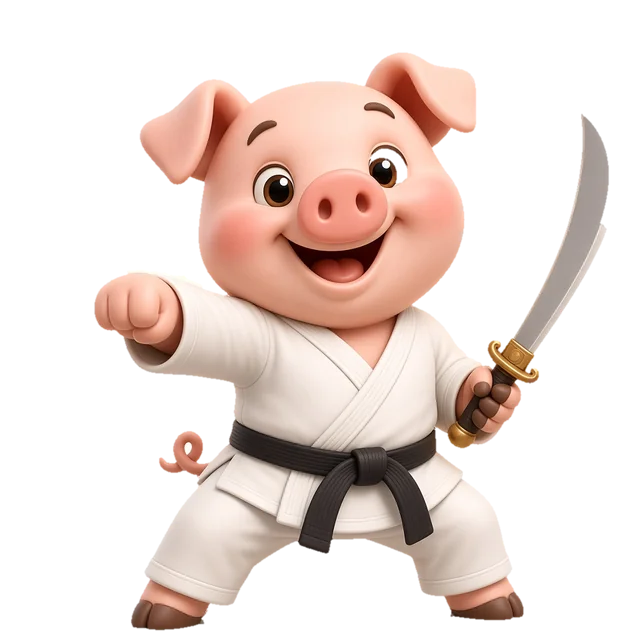
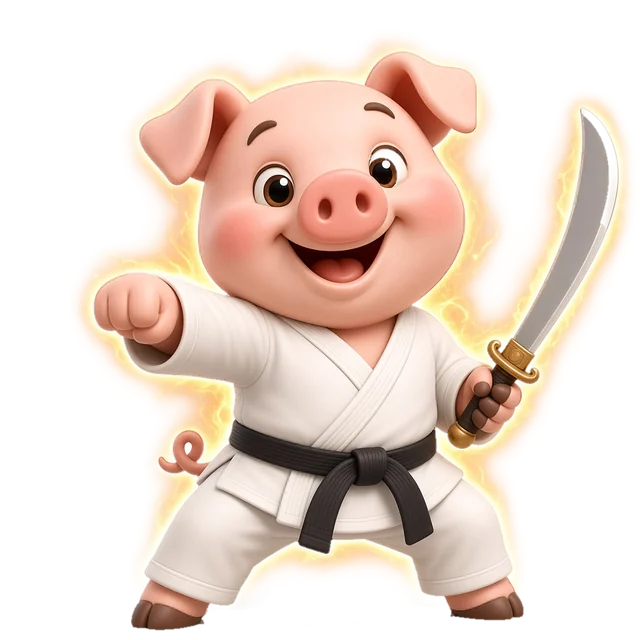
십이지(수련생) 금빛 기운 살리기 — 원본의 불타는 듯한 아우라를 반투명 금빛 층으로
- 선생님 요청: 한때 배경과 함께 걷었던 기운(빛 번짐 · 번개 · 불꽃)을 되살림.
- scripts/prepare-zodiac-art.py에 4단계(aura · compose): 원본에서 색이 있고 밝은 칸의 짙기를
  5px 흐리게 해 불투명도로(바깥으로 갈수록 옅게), 흰 바탕 위 옅은 색을 2.2배 짙게 칠해 캐릭터 뒤에 깖.
  흰 고르기 창에서는 원본과 거의 같고, 어두운 독서 맵 · 친구 목록에서는 금빛으로 빛남.
  용은 원본대로 민트빛, 토끼는 원본에 기운이 없어 그대로. 회색 바닥 그림자는 기운에 안 넣음.
  캐릭터(불투명)와 틀(캐릭터 발끝 기준)은 그대로 — 틀 가장자리 40px에서 기운이 사라짐.
- zodiac-01~10.webp 다시 만듦(24~78KB). 스크립트를 다시 돌리면 바이트까지 같음.
- 문서: public/reading-journey/README.md · READING_GROWTH.md(캐릭터 항목의 API 문장이 하위
  항목 끝에 붙어 있던 것도 본 항목으로 되돌림).
- 실측(데모 1440px): 독서 맵 길 위(독서 대장 빛과 함께) · 오른쪽 초상 · 친구 목록 · 상단바 TOP 3 ·
  프로필 동그라미 · 고르기 창 — 지도 토큰의 그림자 효과로 생기는 검은 테 없음 · 그림 실패 0 · 페이지 오류 0.

Claude-Session: https://claude.ai/code/session_01C8MEnwKbSQD7jTHwr2vygZ

diff --git a/scripts/prepare-zodiac-art.py b/scripts/prepare-zodiac-art.py
@@ -13,11 +13,15 @@
 #          번개 · 불꽃 조각은 두 윤곽 사이에 끼어 배경 쪽으로 갑니다.
 #   3단계  가는 밝은 줄(번개 끝) · 떨어진 부스러기를 걷고, 가장자리 색을 안쪽 색으로 채워 흰 테를 없앱니다.
 #   그래도 남는 곳(용의 민트빛 번짐 · 창날, 쥐 바지 옆 번짐 주머니)은 아래 PER_IMAGE에 눈으로 잰 점 · 다각형으로 적었습니다.
+#   4단계  걷어 낸 기운을 '반투명 금빛 층'으로 되살려 캐릭터 뒤에 깝니다(선생님 요청 — 원본의 불타는 듯한 아우라).
+#          흰 바탕 위 옅은 색을 2.2배 짙게 해 어두운 지도 · 친구 목록에서도 금빛으로 빛나고, 흰 바탕에서는 원본과 거의 같습니다.
+#          캐릭터 자체(불투명)는 1~3단계 그대로이고, 회색 바닥 그림자는 기운에 안 넣습니다. → aura()
 # 틀(640): 열 장 모두 같은 배율(가운데 960px 창 → 640)이라 그린 크기 그대로 견줘지고, 발끝은 아래에서 10px 위.
+#          틀은 캐릭터만으로 정하고(기운이 발밑으로 번져도 틀이 안 움직이게), 틀 가장자리 40px에서 기운이 사라집니다.
 import sys, os, glob, heapq
 from concurrent.futures import ProcessPoolExecutor
 import numpy as np
-from PIL import Image, ImageDraw
+from PIL import Image, ImageDraw, ImageFilter
 
 
 def box3(a):
@@ -277,12 +281,37 @@ def finish(rgb, subj):
 WIN, X0, OUT, FOOT = 960, 32, 640, 15
 
 
-def frame(im):
-    """1024px 투명 → 640×640: 가로는 원본 가운데(32~992), 세로는 발끝이 창 아래에서 15px(640에서 10px) 위."""
-    a = np.asarray(im)[..., 3]
-    ys, _ = np.nonzero(a > 8)
+def aura(rgb):
+    """원본의 기운(빛 번짐 · 번개 · 불꽃)을 반투명 층으로 — (색, 불투명도 0~1).
+    색이 있고(노랑 · 주황 · 민트) 밝은 칸만 기운으로 셉니다 — 회색 바닥 그림자는 빠짐.
+    세기는 5px 흐리게 한 '색의 짙기'로, 바깥으로 갈수록 옅게. 색은 흰 바탕 위 옅은 색을 2.2배 짙게."""
+    sm = box3(rgb)
+    chroma = sm.max(2) - sm.min(2)
+    bright = np.clip((sm.max(2) - 222.0) / 20.0, 0, 1)
+    env = Image.fromarray(np.clip(chroma * bright, 0, 255).astype(np.uint8), "L").filter(ImageFilter.GaussianBlur(5))
+    alpha = np.clip((np.asarray(env).astype(np.float64) - 4.0) / 36.0, 0, 1) ** 0.85
+    alpha *= 0.92
+    color = np.clip(255.0 - 2.2 * (255.0 - rgb), 0, 255)
+    return color, alpha
+
+
+def compose(rgb, subj):
+    """캐릭터(불투명, finish) 뒤에 기운 층을 깔고 640×640으로 — 가로는 원본 가운데(32~992),
+    세로는 캐릭터 발끝이 창 아래에서 15px(640에서 10px) 위."""
+    char = np.asarray(finish(rgb, subj)).astype(np.float64)
+    ca = char[..., 3:4] / 255.0
+    ys, _ = np.nonzero(char[..., 3] > 8)
     y0 = int(ys.max()) + FOOT - WIN
-    crop = im.crop((X0, y0, X0 + WIN, y0 + WIN))                     # 밖은 투명으로 채워짐
+    h, w = subj.shape
+    yy, xx = np.mgrid[0:h, 0:w]
+    edge = np.minimum.reduce([xx - X0, X0 + WIN - 1 - xx, yy - y0, y0 + WIN - 1 - yy]).astype(np.float64)
+    color, a = aura(rgb)
+    a = (a * np.clip(edge / 40.0, 0, 1))[..., None]          # 틀 가장자리 40px에서 기운이 사라지게(잘린 선이 안 보이게)
+    A = ca + (1 - ca) * a                                     # 캐릭터를 기운 위에 얹기(투명도를 곱한 셈)
+    P = ca * char[..., :3] + (1 - ca) * a * color
+    rgbo = np.where(A > 0, P / np.maximum(A, 1e-6), 0)
+    im = Image.fromarray(np.dstack([np.clip(rgbo, 0, 255), np.clip(A[..., 0] * 255, 0, 255)]).astype(np.uint8), "RGBA")
+    crop = im.crop((X0, y0, X0 + WIN, y0 + WIN))                                     # 밖은 투명으로 채워짐
     small = crop.convert("RGBa").resize((OUT, OUT), Image.LANCZOS).convert("RGBA")   # 투명도를 곱한 채로 줄여 테가 안 생김
     arr = np.asarray(small).copy()
     al = arr[..., 3]
@@ -295,7 +324,7 @@ def one(job):
     src, dst_dir = job
     key = os.path.basename(src).rsplit(".", 1)[0]
     rgb, subj = matte(src, PER_IMAGE.get(key, {}))
-    out = frame(finish(rgb, subj))
+    out = compose(rgb, subj)
     path = os.path.join(dst_dir, f"zodiac-{key[:2]}.webp")
     out.save(path, "WEBP", quality=85, method=6)
     return f"{os.path.basename(src)} → {os.path.basename(path)} ({os.path.getsize(path) // 1024}KB)"

diff --git a/READING_GROWTH.md b/READING_GROWTH.md
@@ -56,10 +56,10 @@
   - **한 번 받으면 네 기간(오늘 · 이번 주 · 이번 달 · 누적)의 경험치가 함께 옵니다**(줄마다 `xpBy`). 기간 단추를 눌러도 서버에 다시 묻지 않고 그 자리에서 다시 세웁니다(`lib/readingJourney.js`의 `rankingsForPeriod` — 서버와 같은 `sortReadingRankings`). 시험 `tests/unit/readingJourney.test.mjs`('순위 — 한 번 받은 네 기간…').
   - 다시 받는 동안은 순위 · 내 순위 메달을 **그대로 둡니다**(깜빡이지 않음). 받아 오다 실패하면 마지막으로 확인한 성장 정보임을 알리고 기존 지도 선택을 유지합니다. 권한·기능이 해제되면 이전 목록도 걷습니다.
   - 한때 30초마다 + 돌아올 때 focus · visibilitychange로 두 번씩, 그 뒤 60초마다 받았고 기간 단추마다 다시 받았습니다 — 25명 반이면 한 번에 80장 남짓이라, 학생 25명이 10분 띄워 두면 2만 장을 넘었습니다(지금은 2천 장 남짓).
-- **캐릭터** — 세 묶음 각 10종을 `public/reading-journey/`의 투명 WebP(640×640)로 표시합니다: **수련생 · 십이지**(`zodiac` — 쥐·소·호랑이·토끼·용·양·원숭이·닭·개·돼지, 무술 도복) · **무도가 · 동물**(`animal` — 곰·토끼·고양이 …, 처음부터 있던 묶음) · **영웅 · 판타지**(`fantasy` — 엘프 궁수·곰 기사·드워프·보라 마법사·레드 드래곤·드루이드·가면 도적·성직자·오크·요정). `lib/readingCharacterCatalog.js`의 묶음별 목록·이름·이미지 경로를 선택창·지도·랭킹·프로필·상단 TOP 3가 공유하고, 화면 글자(등급 이름 — 수련생 · 무도가 · 영웅, 선생님이 고름 · 한때 초급 · 중급 · 고급)도 그 파일의 `CHARACTER_STYLE_OPTIONS` 한 곳입니다. 프로필 등에는 '용 · 수련생'처럼 캐릭터 이름 뒤에 붙습니다. 묶음과 캐릭터는 레벨과 무관하게 학생이 고르며, 고른 적 없는 학생은 UID로 정한 무도가 동물(`defaultWorldAvatar`)입니다. `캐릭터 꾸미기`는 본인 선택 때만 보입니다.
+- **캐릭터** — 세 묶음 각 10종을 `public/reading-journey/`의 투명 WebP(640×640)로 표시합니다: **수련생 · 십이지**(`zodiac` — 쥐·소·호랑이·토끼·용·양·원숭이·닭·개·돼지, 무술 도복) · **무도가 · 동물**(`animal` — 곰·토끼·고양이 …, 처음부터 있던 묶음) · **영웅 · 판타지**(`fantasy` — 엘프 궁수·곰 기사·드워프·보라 마법사·레드 드래곤·드루이드·가면 도적·성직자·오크·요정). `lib/readingCharacterCatalog.js`의 묶음별 목록·이름·이미지 경로를 선택창·지도·랭킹·프로필·상단 TOP 3가 공유하고, 화면 글자(등급 이름 — 수련생 · 무도가 · 영웅, 선생님이 고름 · 한때 초급 · 중급 · 고급)도 그 파일의 `CHARACTER_STYLE_OPTIONS` 한 곳입니다. 프로필 등에는 '용 · 수련생'처럼 캐릭터 이름 뒤에 붙습니다. 묶음과 캐릭터는 레벨과 무관하게 학생이 고르며, 고른 적 없는 학생은 UID로 정한 무도가 동물(`defaultWorldAvatar`)입니다. `캐릭터 꾸미기`는 본인 선택 때만 보입니다. `POST /api/reading/character`가 인증된 학생 본인·소속·반 기능을 검사한 뒤 `users/{uid}.readingCharacter={number,style}`만 저장합니다. 서버 랭킹은 검증한 `row.character`를 함께 반환합니다. 경험치·원장은 바꾸지 않고 클라이언트 Firestore 규칙도 넓히지 않습니다. 데모 선택은 UID별 브라우저 저장소에 보관합니다.
   - **저장 열쇠는 등급이 아니라 묶음 이름**입니다(`lib/readingCharacter.js`의 `CHARACTER_STYLES`) — 등급 이름을 바꾸거나 묶음 차례를 바꿔도 저장값이 따라 바뀌지 않게.
   - **2026년 11월 묶음 바꾸기**(선생님 요청): 십이지를 새 첫 등급(수련생)으로 들이고, 옛 초급 판타지를 맨 위 등급(영웅)으로 올리고, 옛 고급(전통 무술복 동물 — `advanced-*.webp`)은 내렸습니다. 이어서 등급 이름을 초급 · 중급 · 고급에서 수련생 · 무도가 · 영웅으로 바꿨습니다(선생님이 고름). 이미 저장된 옛 열쇠는 `normalizeReadingCharacter`가 읽을 때 · 저장할 때 옮깁니다 — `beginner` → `fantasy`(같은 그림), `intermediate` → `animal`(그대로), `advanced` → `animal`(같은 번호의 같은 동물). 그래서 **문서를 고쳐 쓰는 일도, 규칙 배포도 없습니다**(규칙은 이 칸을 안 봄). 다음에 그 학생이 고르면 새 열쇠로 적힙니다. 시험 `tests/unit/readingCharacter.test.mjs` · `tests/server/reading.test.mjs`('old character keys …').
-  - 십이지 그림은 흰 바탕에 노란 '기운'이 그려진 원본이라 `scripts/prepare-zodiac-art.py`로 배경을 걷었습니다(과정 · 다시 만드는 법은 `public/reading-journey/README.md`). `POST /api/reading/character`가 인증된 학생 본인·소속·반 기능을 검사한 뒤 `users/{uid}.readingCharacter={number,style}`만 저장합니다. 서버 랭킹은 검증한 `row.character`를 함께 반환합니다. 경험치·원장은 바꾸지 않고 클라이언트 Firestore 규칙도 넓히지 않습니다. 데모 선택은 UID별 브라우저 저장소에 보관합니다.
+  - 십이지 그림은 흰 바탕에 노란 '기운'이 그려진 원본이라 `scripts/prepare-zodiac-art.py`로 배경을 걷고, **기운은 반투명 금빛 층으로 되살려** 캐릭터 뒤에 깔았습니다(선생님 요청 — 어두운 독서 맵 · 친구 목록에서 금빛으로 빛남, 바닥 그림자만 걷음). 과정 · 다시 만드는 법은 `public/reading-journey/README.md`.
 - **순위에 서는 학생** — 반의 학생 가운데 **교사 · 관리자와 사용 중지된 학생(전학 등 — `users/{uid}.suspended`)은 뺍니다**(선생님 요청 — `lib/readingJourney.js`의 `isRankedStudent` 한 곳, 서버 `rankingStudents` · 데모가 함께 씀). 지도 · 순위 · '함께 걷는 친구들' · 상단바 '독서 TOP 3'가 모두 같은 판정입니다. 빼는 것은 순위에 서는 자리뿐이고 독서 기록 · 경험치 · 반 집계는 그대로라, 다시 사용하게 하면 그대로 돌아옵니다. 프로필은 순위를 셀 때 이미 읽어 꺼내 보는 장수는 안 늡니다. 사용 중지된 학생은 로그인을 못 해 더 읽지 않는데 누적 경험치는 남아, 빼지 않으면 TOP 3에 계속 섰습니다. 시험 `tests/server/reading.test.mjs`('사용 중지 — …') · `tests/unit/readingJourney.test.mjs`('순위에 서는 학생…').
 - **독서 여정 순위** — 오늘 · 이번 주 · 이번 달 · 누적(기존 랭킹 API 그대로 · 같은 점수는 공동 순위). 기간 변경은 순위에만 적용하고 지도 위치·선택 학생의 누적 성장을 초기화하지 않습니다. 순위 줄 또는 상태창의 성장 기록 버튼을 누르면 **그 학생의 경험치 · 뱃지 창**(18종 중 모은 것 · 쪽수 · 완독 · 감상문 수 · 연속 독서일)이 열립니다. 뱃지 툴팁의 조건은 `badgeHint`를 재사용합니다.
 - **내 여정 정보**(학생) — 지도와 같은 공개 요약으로 내 레벨·칭호·지형·다음 레벨·뱃지를 보여 주고, **'나의 독서 여정' 이야기**만 본인의 서재 정본에서 만듭니다. 교사는 그 자리에 '우리 반 여정 요약'을 봅니다.

diff --git a/public/reading-journey/README.md b/public/reading-journey/README.md
@@ -28,12 +28,13 @@
 | 09 | 개 | 09-dog.png |
 | 10 | 돼지 | 10-pig.png |
 
-원본은 사용자 제공 `zodiac-martial-arts.zip`의 1024 × 1024 PNG 10개(뱀 · 말은 없음)이고, **흰 바탕에 노란 '기운'(빛 번짐 · 번개 · 불꽃)과 바닥 그림자가 함께 그려져** 있었습니다. 도복 · 흰 털도 흰색에 가까워 '흰색만 지우기'로는 도복이 뚫리고 번짐이 남아(어두운 독서 맵 · 친구 목록에서 흰 테로 보임), `scripts/prepare-zodiac-art.py`로 걷었습니다.
+원본은 사용자 제공 `zodiac-martial-arts.zip`의 1024 × 1024 PNG 10개(뱀 · 말은 없음)이고, **흰 바탕에 노란 '기운'(빛 번짐 · 번개 · 불꽃)과 바닥 그림자가 함께 그려져** 있었습니다. 도복 · 흰 털도 흰색에 가까워 '흰색만 지우기'로는 도복이 뚫리고 번짐이 남아(어두운 독서 맵 · 친구 목록에서 흰 테로 보임), `scripts/prepare-zodiac-art.py`로 캐릭터를 오려 낸 뒤 **기운만 반투명 금빛 층으로 되살려** 뒤에 깔았습니다.
 
 - 바깥 흰 바탕에서 색이 매끈하게 이어지는 곳만 따라 들어가 '확실한 배경'을 잡고, 털 · 띠 · 그늘진 도복 같은 '확실한 캐릭터'와 동시에 퍼뜨려 **가장 센 윤곽에서 만나게** 합니다(분수령). 빛을 받아 노랗게 물든 도복 가장자리는 윤곽 안쪽이라 지켜지고, 번개 · 불꽃 조각은 배경 쪽으로 갑니다.
-- 기운과 바닥 그림자는 모두 걷었습니다 — 다른 두 묶음처럼 캐릭터만 남깁니다. **호랑이 주먹의 불꽃은 남겼습니다**(주먹에 붙은 그림의 일부).
+- **기운은 살렸습니다**(선생님 요청 — 원본의 불타는 듯한 아우라). 한때 다른 두 묶음처럼 기운까지 모두 걷었는데, 되살렸습니다. 원본에서 색이 있고(노랑 · 주황 · 민트) 밝은 칸의 짙기를 5px 흐리게 해 불투명도로 쓰고(바깥으로 갈수록 옅게), 흰 바탕 위 옅은 색을 2.2배 짙게 해 칠합니다 — 그래서 흰 고르기 창에서는 원본과 거의 같고, 어두운 독서 맵 · 친구 목록에서는 금빛으로 빛납니다. 용은 원본대로 민트빛, 토끼는 원본에 기운이 없어 그대로입니다. 캐릭터 자체는 오려 낸 그대로 불투명하게 위에 얹습니다(`aura()` · `compose()`).
+- **회색 바닥 그림자는 기운에 넣지 않습니다**(색이 없거나 어두운 칸은 빠짐) — 발밑에 검은 얼룩이 생기지 않게. 호랑이 주먹의 불꽃은 처음부터 캐릭터의 일부로 남겼습니다.
 - 자동으로 가르기 어려운 곳 — 용의 민트빛 번짐 · 흰 바탕과 거의 같은 창날, 쥐 바지 옆의 번짐 주머니 — 은 스크립트 안 `PER_IMAGE`에 눈으로 잰 점 · 다각형(원본 좌표)으로 적었습니다.
-- 틀: 열 장 모두 **같은 배율**(가운데 960px 창 → 640)이라 그린 크기 그대로 견줘지고, 발끝은 아래에서 10px 위입니다. 투명도를 곱한 채로 줄여 가장자리에 흰 테가 생기지 않고, WebP 품질 85(투명도는 손실 없음)로 한 장 20~50KB입니다.
+- 틀: 열 장 모두 **같은 배율**(가운데 960px 창 → 640)이라 그린 크기 그대로 견줘지고, 캐릭터의 발끝이 아래에서 10px 위입니다(틀은 캐릭터만으로 정해 기운이 번져도 안 움직임 · 틀 가장자리 40px에서 기운이 사라짐). 투명도를 곱한 채로 줄여 가장자리에 흰 테가 생기지 않고, WebP 품질 85로 한 장 24~78KB입니다.
 - 다시 만들기: ZIP을 새 빈 폴더에 풀고 `python3 -I scripts/prepare-zodiac-art.py <그 폴더> <내보낼 폴더>`(numpy · Pillow, 한 번에 1분쯤). 지금 파일과 바이트까지 같게 나옵니다(2026년 11월 확인). 그림을 새로 받으면 `PER_IMAGE`의 점 · 다각형은 그 그림에 맞게 다시 재야 합니다.
 
 ## 무도가 · 동물
